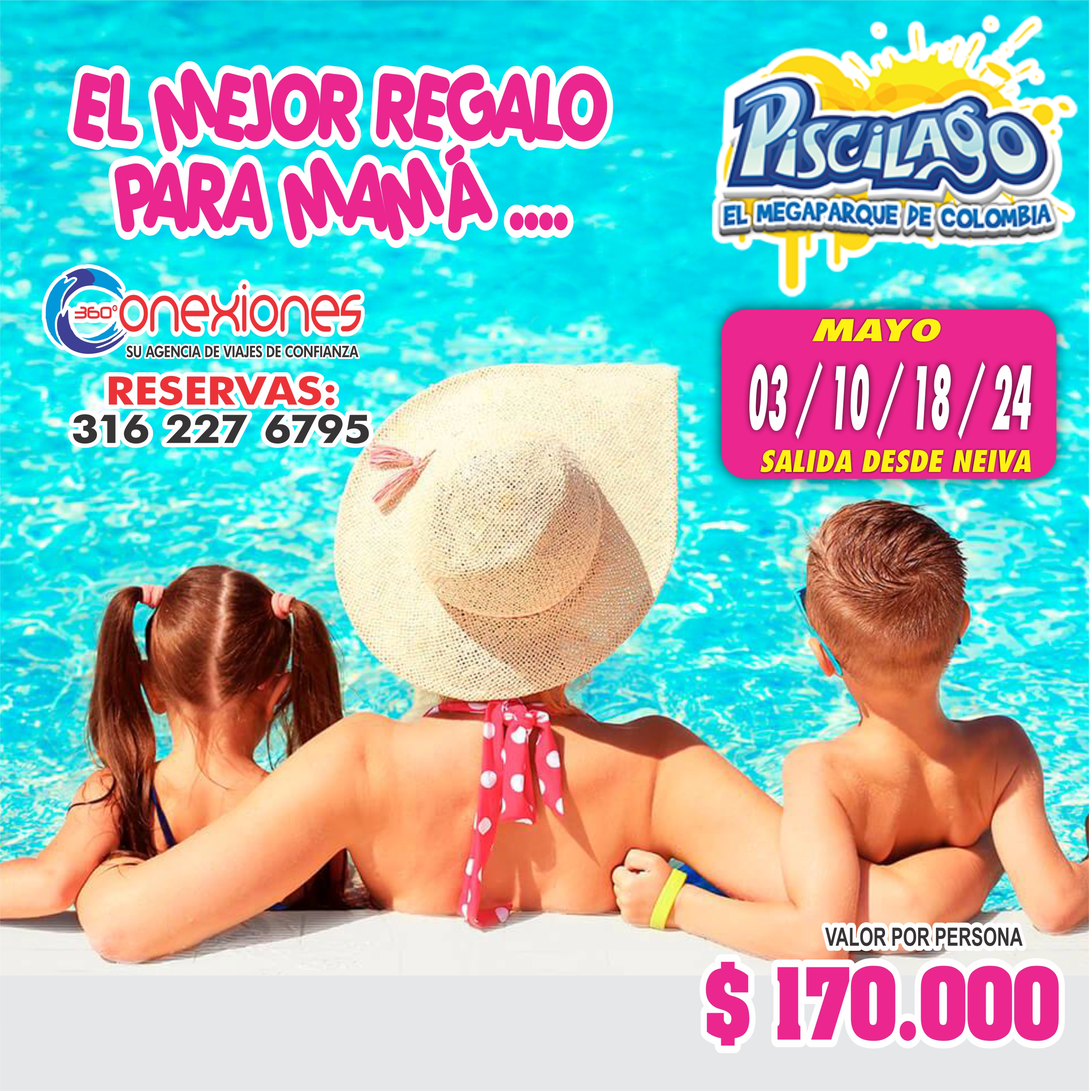
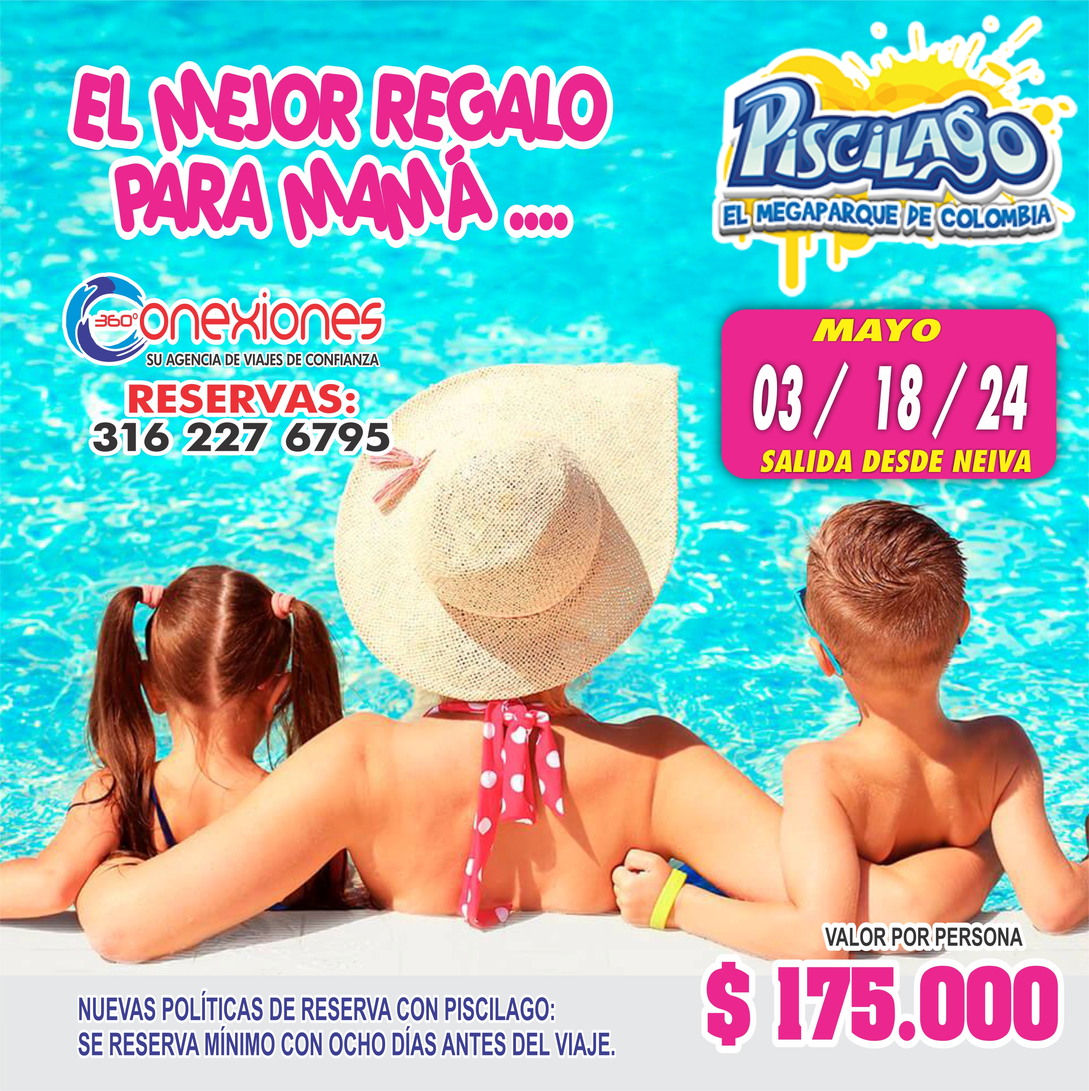
mayo correcciones v200226

diff --git a/src/data/flyers/flyers.ts b/src/data/flyers/flyers.ts
@@ -361,7 +361,7 @@ export const flyers: FlyerPlan[] = [
     tipo: "terrestre",
     titulo: "Programación Abril 2026",
     fechas: ["Abril 1 - 30"],
-    precio: 145000,
+    precio: 175000,
     imagen: "/Abril2026/lista.jpg",
     whatsappBase:
       "Hola Conexiones360, quiero información del plan Abril 2026",
@@ -466,10 +466,21 @@ export const flyers: FlyerPlan[] = [
     tipo: "terrestre",
     titulo: "Programación Mayo 2026",
     fechas: ["Mayo 1 - 31"],
-    precio: 170000,
+    precio: 175000,
     imagen: "/Mayo2026/lista.jpg",
     whatsappBase:
       "Hola Conexiones360, quiero información del plan Mayo 2026",
+  },
+                {
+    id: "nevadodelruiz-mayo",
+    mes: "mayo",
+    tipo: "terrestre",
+    titulo: "Nevado del Ruiz",
+    fechas: ["Mayo 1"],
+    precio: 350000,
+    imagen: "/Mayo2026/nevadoruiz.jpg",
+    whatsappBase:
+      "Hola Conexiones360, quiero información del plan Nevado del Ruiz",
   },
               {
     id: "piscilago-mayo",
@@ -478,11 +489,10 @@ export const flyers: FlyerPlan[] = [
     titulo: "Piscilago Pasadía",
     fechas: [
       "Mayo 3",
-      "Mayo 10",
       "Mayo 18",
       "Mayo 24",
     ],
-    precio: 170000,
+    precio: 175000,
     imagen: "/Mayo2026/piscilago.jpg",
     whatsappBase:
       "Hola Conexiones360, quiero información del plan Piscilago Pasadía",
@@ -492,8 +502,8 @@ export const flyers: FlyerPlan[] = [
     mes: "mayo",
     tipo: "terrestre",
     titulo: "Cafam Melgar",
-    fechas: ["Mayo 1"],
-    precio: 160000,
+    fechas: ["Mayo 10"],
+    precio: 175000,
     imagen: "/Mayo2026/cafam.jpg",
     whatsappBase:
       "Hola Conexiones360, quiero información del plan Cafam",
